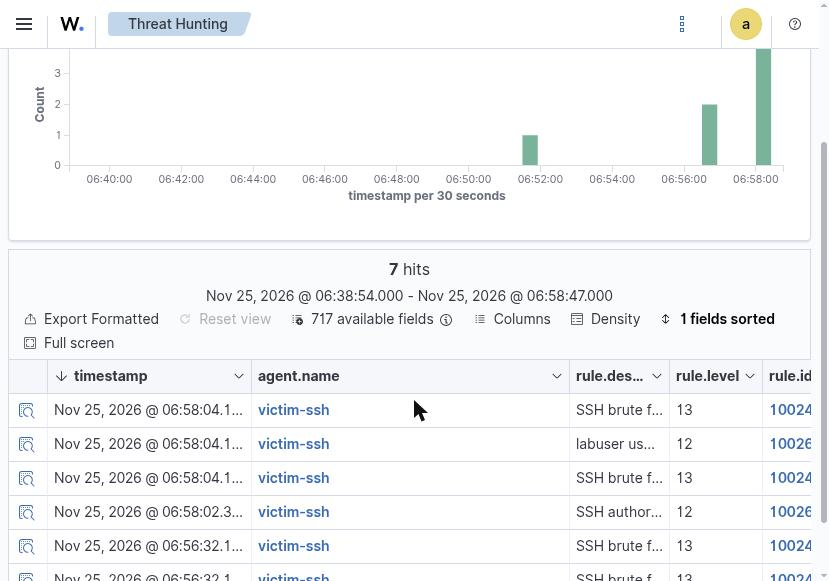
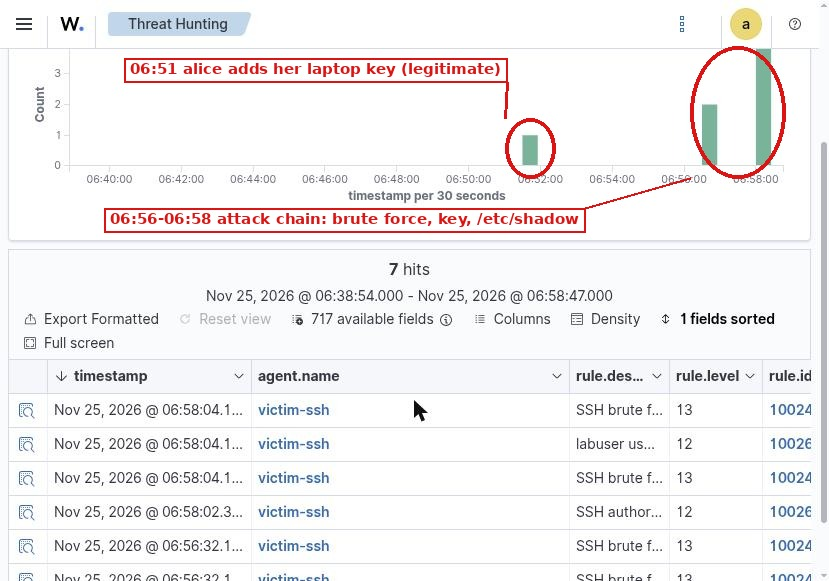
Remove stored credentials and timezone; annotate screenshots
- victim passwords: setup.sh picks them from the attack wordlist
  (placeholder from-wordlist); none stored in the repository
- Wazuh cluster key: generated into .env, substituted at start
- reports: no password values, no timezone
- screenshots: red marks and captions for the evidence they show

diff --git a/README.md b/README.md
@@ -11,6 +11,8 @@ response.
 
 ![Detected techniques in the Wazuh MITRE ATT&CK view](docs/screenshots/06-mitre-framework.jpg)
 
+*Wazuh's MITRE ATT&CK view during the attack phase. **Red:** the eight techniques the six attacks map to, all detected. **Orange:** T1055, where a stock Wazuh rule wrongly files SQL injection under process injection; the custom rules map it to T1190.*
+
 ## Results
 
 | # | Attack | MITRE ATT&CK | Detected by | Level | Time to detect |
@@ -34,6 +36,8 @@ legitimate admin action that fires the same rule as the attacker, and how
 context tells them apart.
 
 ![All level-12+ alerts fall in the attack phase](docs/screenshots/03-level12-only-in-attack-phase.jpg)
+
+*Every alert at level 12 or above, over both phases. **Top left:** the ten minutes of normal activity have none. **Centre:** 14 hits, **right:** all at level 12–13, every one inside the attack phase.*
 
 ## Architecture
 
@@ -90,9 +94,10 @@ flowchart LR
 - All Wazuh ports listen on `127.0.0.1`. No real malware is used.
 - The victims are deliberately vulnerable. Do not expose them to the
   internet or an untrusted network.
-- Victim passwords in `.env.example` are deliberately weak (brute-force
-  targets). Every other password is generated by `scripts/setup.sh` into
-  `.env`, which is never committed.
+- No password, key or certificate is stored in the repository.
+  `scripts/setup.sh` generates them into `.env` (never committed): strong
+  random values for Wazuh, and for the victims a deliberately weak one
+  picked from the attack wordlist.
 
 ## Quick start
 
@@ -189,8 +194,6 @@ caught, all documented with their fixes:
 - Slow attacks stay under the frequency thresholds.
 - The Wazuh manager API and enrollment port are reachable from the lab
   network (agents need them); attacks never target them.
-- `wazuh_manager.conf` keeps the upstream default cluster key; clustering is
-  disabled, so it has no effect.
 - Built and tested on one host (Kali Linux, 7.5 GiB RAM). Ten minutes of one
   scripted user is a small baseline.
 

diff --git a/reports/05-database-brute-force.md b/reports/05-database-brute-force.md
@@ -11,8 +11,8 @@
 
 ## What the attacker got
 
-The MariaDB `root` password in about a second, then full
-database access:
+The MariaDB `root` password, a common word from the wordlist, in about a
+second, then full database access:
 
 ```
 information_schema, mysql, performance_schema, shop, sys
@@ -66,7 +66,7 @@ Fix ([decoders](../wazuh/decoders/mariadb_decoders.xml), [rules](../wazuh/rules/
 
 Both per-failure rules carry the group `mariadb_auth_failure`, and the
 brute-force rule 100250 now counts that group instead of rule 50106.
-Re-run at 12:07 UTC: **100250 (level 12)** plus 25 × 100251 (level 9), each
+Re-run after the fix: **100250 (level 12)** plus 25 × 100251 (level 9), each
 with `srcuser=root` and `srcip=172.30.0.100`.
 
 ## Detection gap: success is invisible

diff --git a/reports/04-ssh-brute-force.md b/reports/04-ssh-brute-force.md
@@ -11,8 +11,9 @@
 
 ## What the attacker got
 
-`labuser` and its password, a word from the top of every wordlist. Then a
-shell:
+The password of `labuser`, a common word from the attack wordlist
+(`setup.sh` picks one at random, so it is not written in the repository).
+Then a shell:
 
 ```
 uid=1000(labuser) gid=1000(labuser) groups=1000(labuser),27(sudo)
